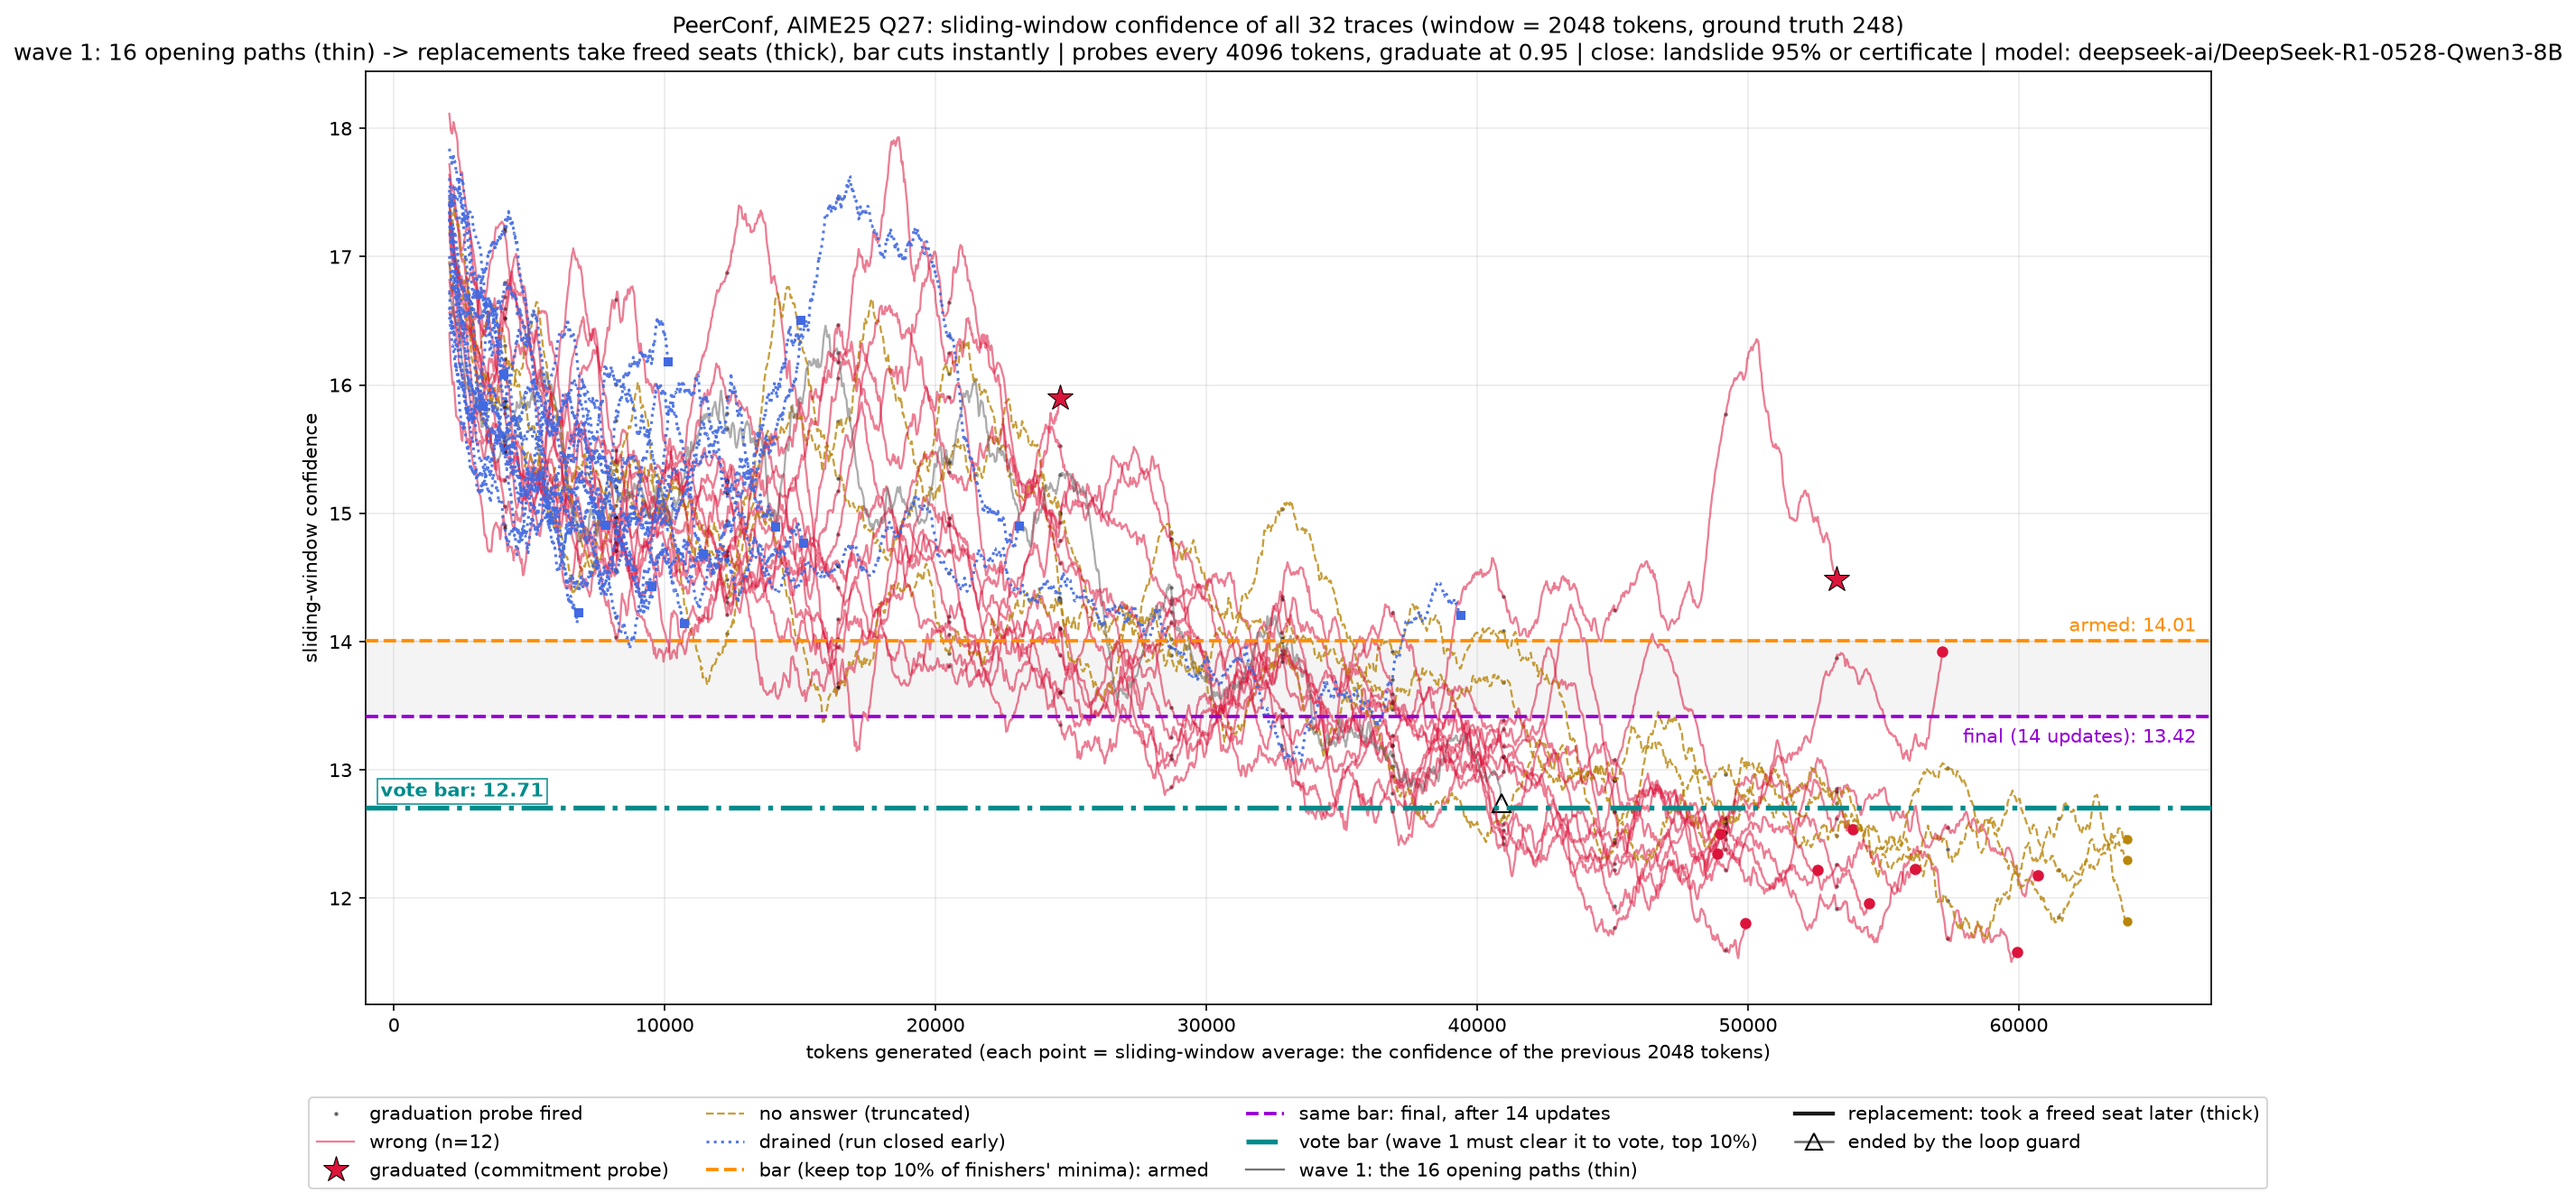
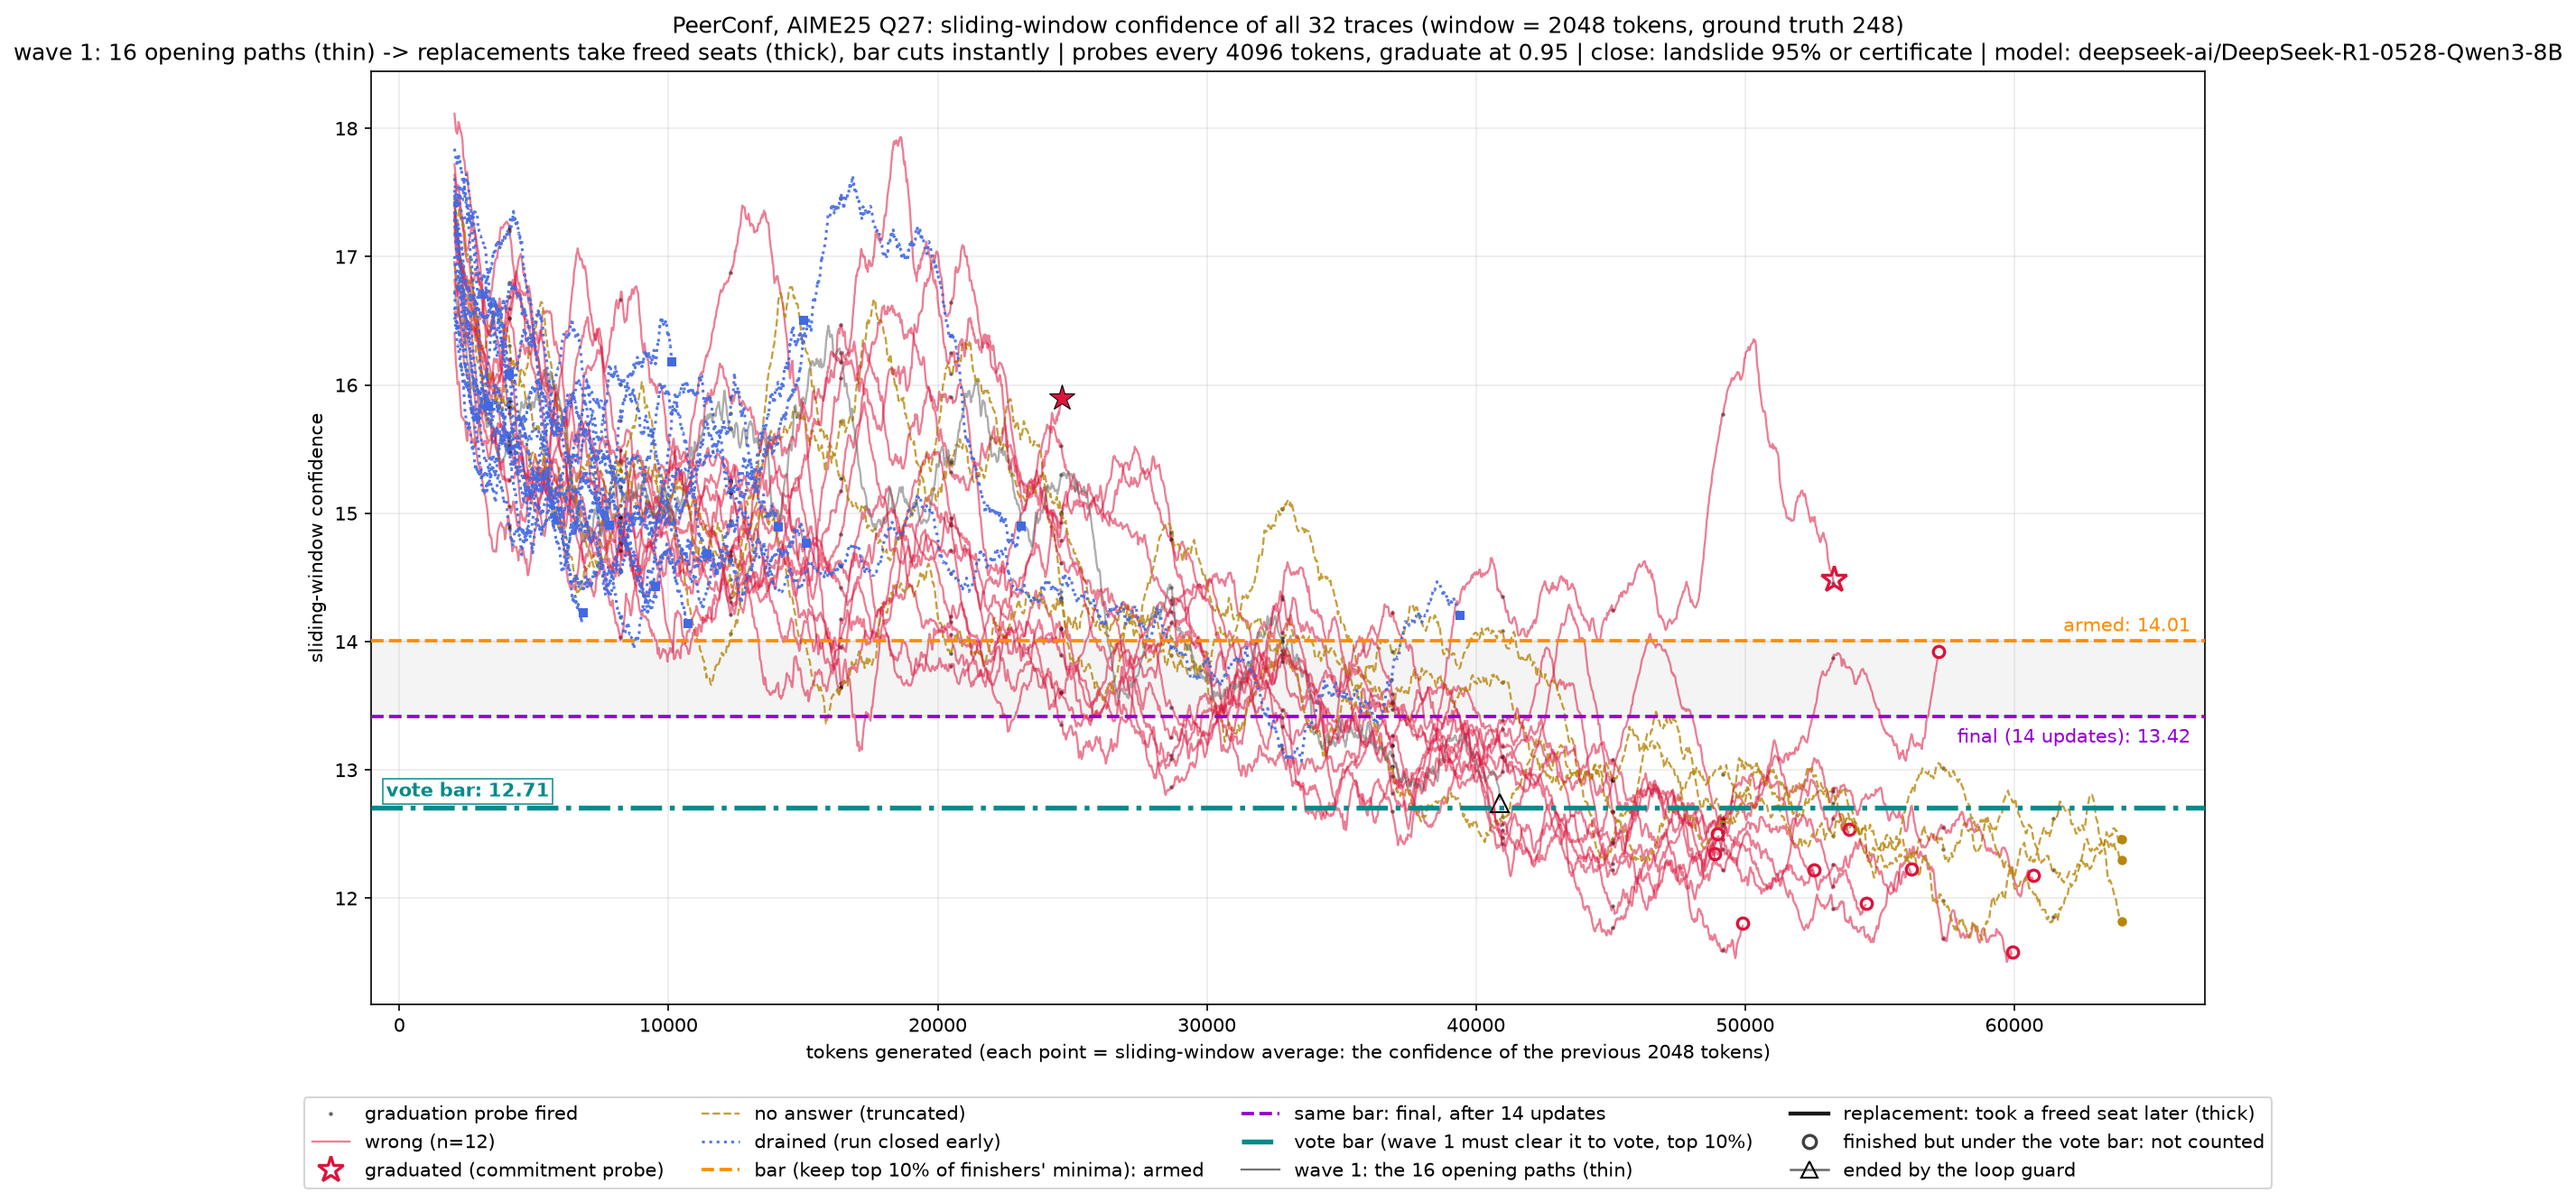
show the ballots that were not counted

diff --git a/peerconf/cell3_confidence_timeline.py b/peerconf/cell3_confidence_timeline.py
@@ -61,16 +61,30 @@ def draw_timeline(fname):
         if lab in seen_labels: return None
         seen_labels.add(lab); return lab
 
+    # a wave-1 path whose worst moment fell under the vote bar still finishes and
+    # still has an answer — it just does not get to cast it. Filled marker = its
+    # ballot counted; hollow = it finished and was not counted.
+    VBAR = cfg.get("vote_bar")
+    def counted(t):
+        return not (VBAR is not None and t["id"] < cfg.get("SEATS", 0)
+                    and t["confs"] and min(t["confs"]) < VBAR)
+
     def end_marker(t, x_end, y_end, color):
-        """How the trace left the run: * graduated | ^ loop-harvested | o natural."""
+        """How the trace left the run: * graduated | ^ loop-harvested | o natural.
+        Hollow = finished but below the vote bar, so its answer was not counted."""
+        ok = counted(t)
+        if not ok:
+            seen_labels.add("__novote__")
+        style = (dict(color=color, mec="black", mew=0.5) if ok
+                 else dict(color="none", mfc="none", mec=color, mew=1.6))
         if t.get("graduated"):
-            ax.plot(x_end, y_end, "*", color=color, ms=14, mec="black", mew=0.5,
+            ax.plot(x_end, y_end, "*", ms=14, **style,
                     label=label_once("graduated (commitment probe)"))
         elif t.get("looped"):
-            ax.plot(x_end, y_end, "^", color=color, ms=9, mec="black", mew=0.5,
+            ax.plot(x_end, y_end, "^", ms=9, **style,
                     label=label_once("loop-guard harvest"))
         else:
-            ax.plot(x_end, y_end, "o", color=color, ms=5)
+            ax.plot(x_end, y_end, "o", ms=6, **style)
 
     for t in r["traces"]:
         confs = t["confs"]
@@ -206,6 +220,10 @@ def draw_timeline(fname):
     if "__rep__" in seen_labels:
         handles.append(Line2D([], [], color="black", lw=2.1, alpha=0.9))
         labels.append("replacement: took a freed seat later (thick)")
+    if "__novote__" in seen_labels:
+        handles.append(Line2D([], [], ls="none", marker="o", ms=7,
+                              mfc="none", mec="0.25", mew=1.6))
+        labels.append("finished but under the vote bar: not counted")
     if "__loop__" in seen_labels:
         handles.append(Line2D([], [], color="dimgray", lw=1.2, marker="^",
                               ms=9, mfc="none", mec="black", mew=1.0))
